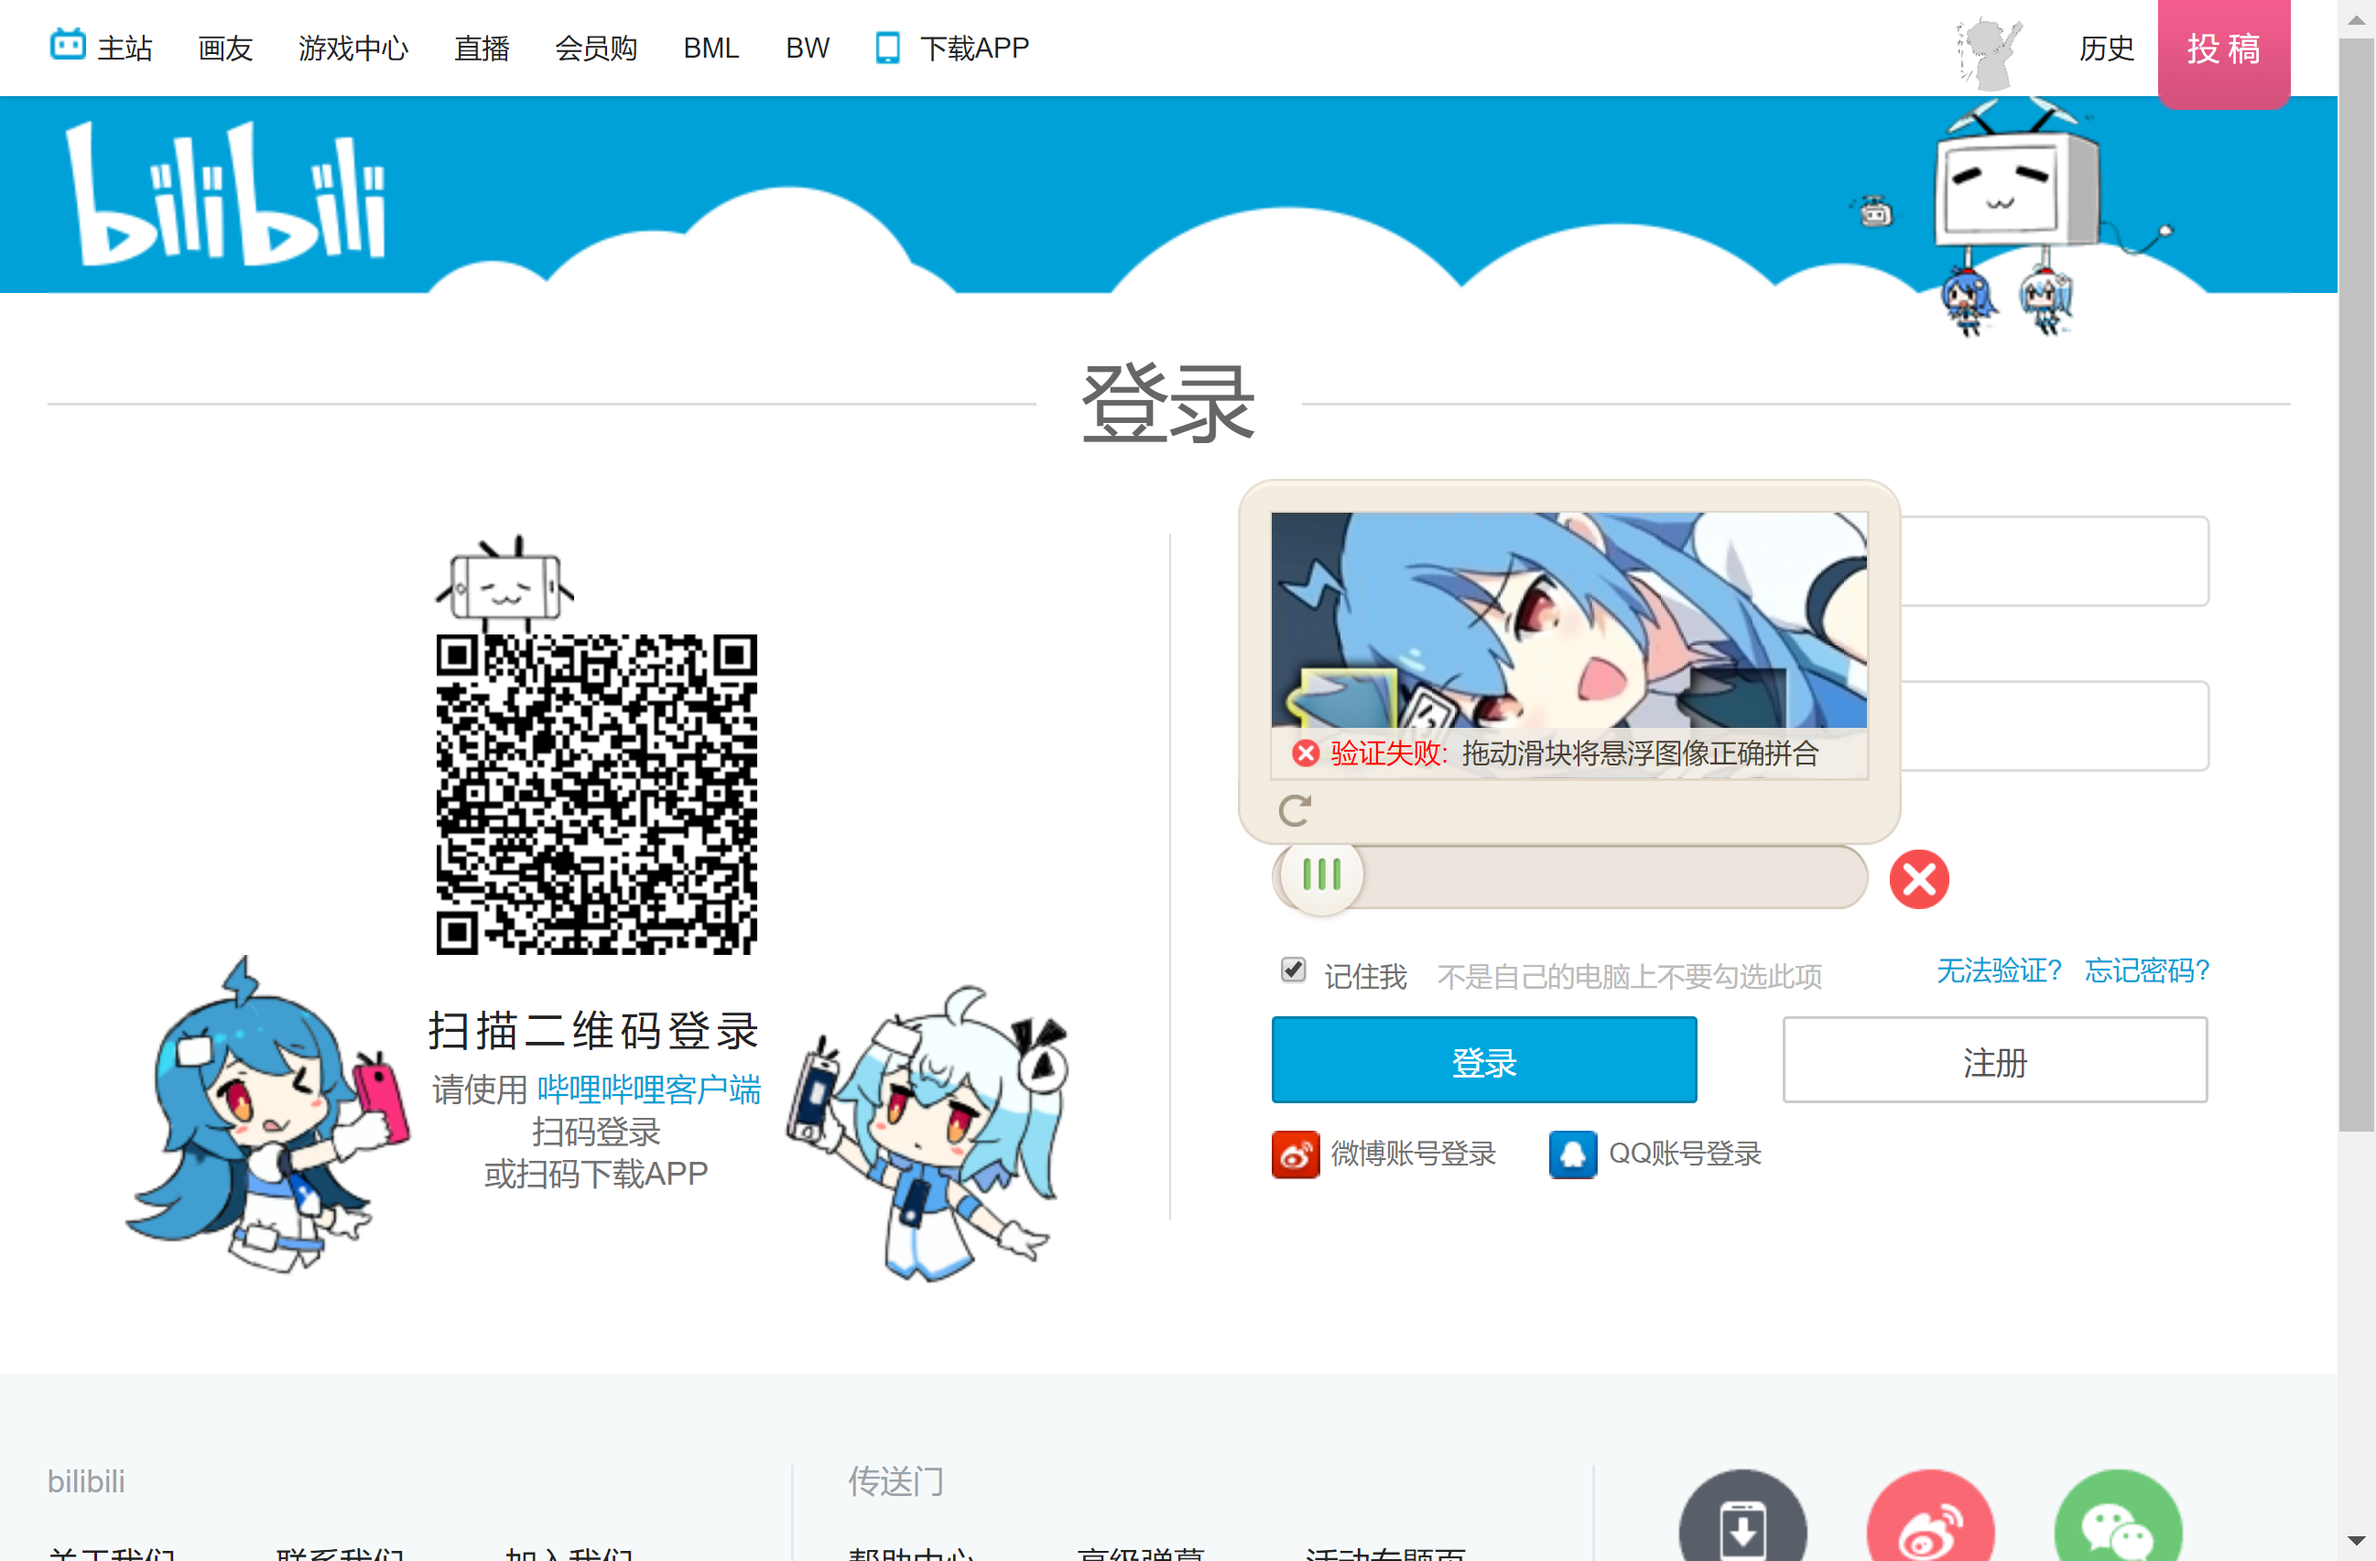
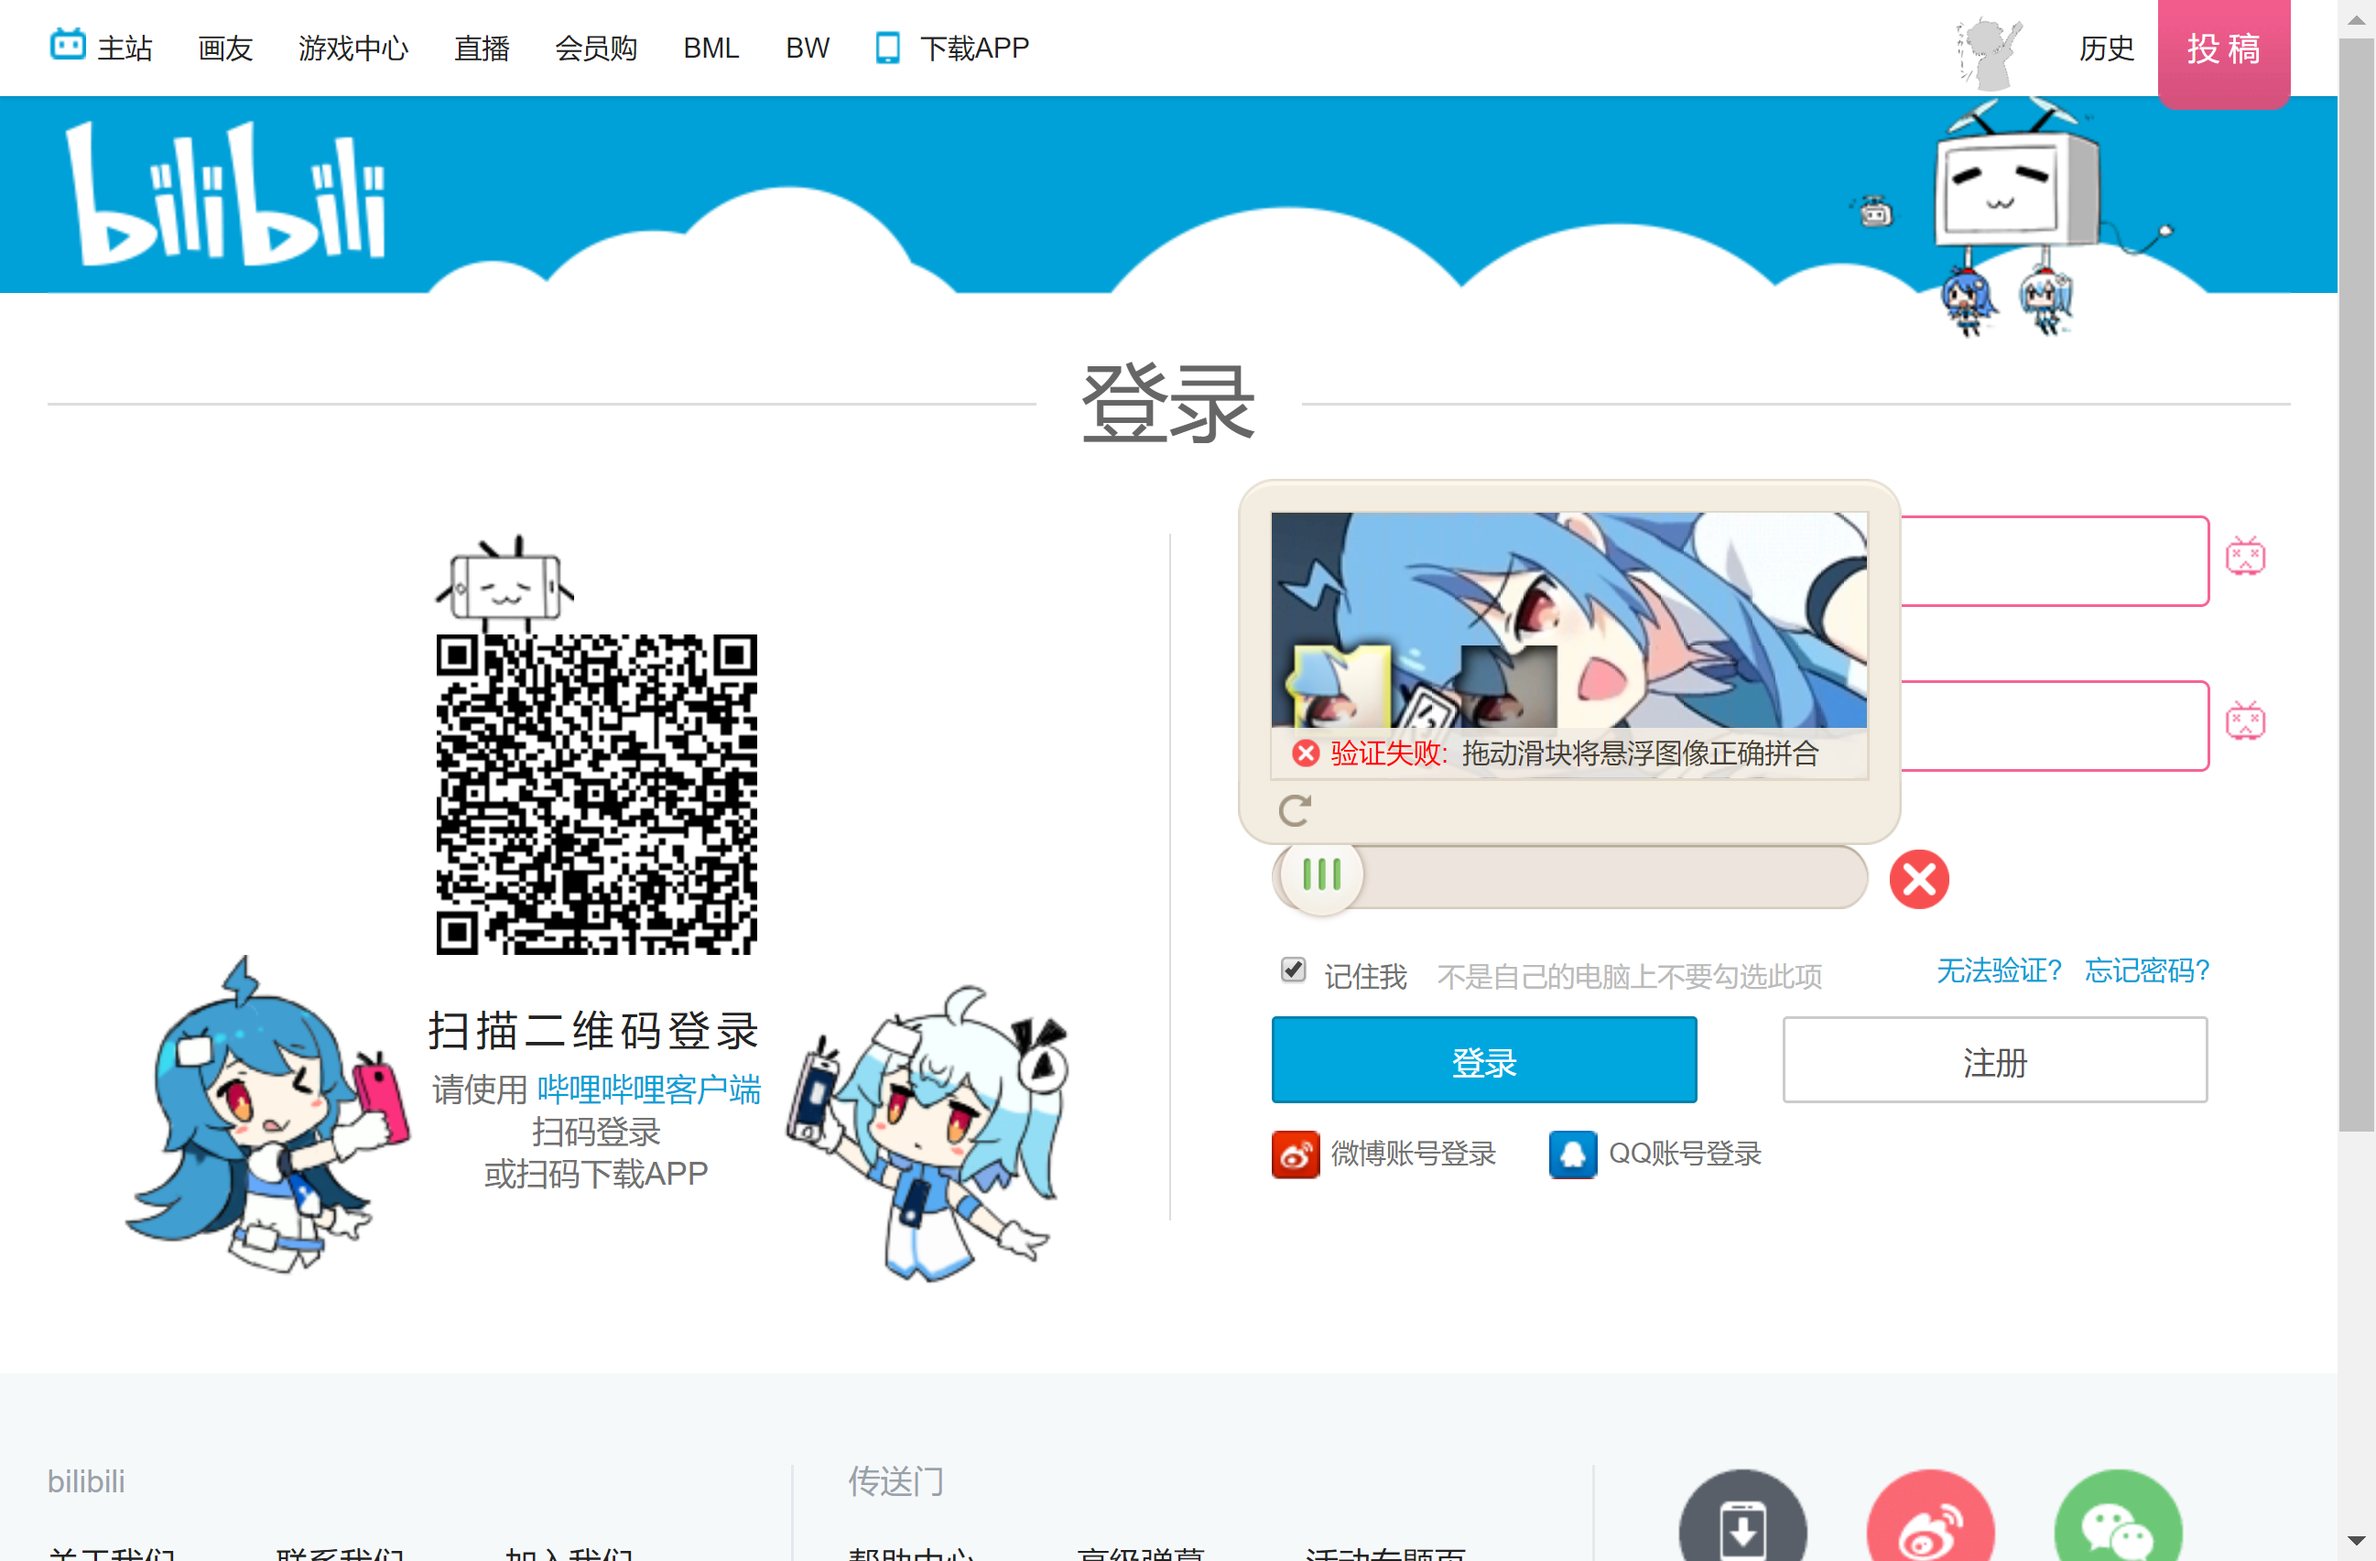
None

diff --git a/IdentifyingCodeCheck/IdentifyingCodeCheck.py b/IdentifyingCodeCheck/IdentifyingCodeCheck.py
@@ -5,15 +5,14 @@ from selenium.webdriver.common.by import By
 from selenium.webdriver.support import expected_conditions as EC
 from selenium.webdriver.support.ui import WebDriverWait
 from selenium.webdriver import ActionChains
-DEBUG = True
+DEBUG = False
 if not DEBUG:
     driver = webdriver.Chrome()
     wait = WebDriverWait(driver, 10)
     driver.get("https://www.bilibili.com")
     move_btn_xpath = '//*[@id="gc-box"]/div/div[3]/div[2]'
 cropped_im_size = (500, 235)
-either_threshold = 100
-jump_threshold = 120
+either_threshold = 80
 
 def LogIn():
     login_btn = wait.until(
@@ -46,40 +45,23 @@ def ImageCrop():
     im_crop = im.crop((1538, 560, 2038, 795))
     im_crop.save('./cropped2.png')
 def GetDistance(RGBList_1, RGBList_2):
-    conform = []
+    threshold = 20
     for iter_height in range(cropped_im_size[1]):
-        either = 0
         for iter_width in range(cropped_im_size[0] - 100):
             NOW_RGB_1 = RGBList_1[iter_height * cropped_im_size[0] + iter_width]
             NOW_RGB_2 = RGBList_2[iter_height * cropped_im_size[0] + iter_width]
             if NOW_RGB_1 != NOW_RGB_2:
-                either += 1
-                if either >= either_threshold:
-                    if len(conform) != 0 and iter_width - conform[-1] < jump_threshold:
-                        continue
-                    point_width = iter_width - either_threshold
-                    error_threshold = 0
-                    for iter_height_two in range(1, 40):
-                        NOW_RGB_1 = RGBList_1[(iter_height + iter_height_two) * cropped_im_size[0] + point_width]
-                        NOW_RGB_2 = RGBList_2[(iter_height + iter_height_two) * cropped_im_size[0] + point_width]
-                        if NOW_RGB_1 == NOW_RGB_2:
-                            error_threshold += 1
-                    if error_threshold < 5:
-                        error_threshold = 0
-                        for iter_width_two in range(either_threshold):
-                            for son_height in range(1, 20):
-                                NOW_RGB_1 = RGBList_1[(iter_height + son_height) * cropped_im_size[0] + iter_width_two + point_width]
-                                NOW_RGB_2 = RGBList_2[(iter_height + son_height) * cropped_im_size[0] + iter_width_two + point_width]
-                                if NOW_RGB_1 == NOW_RGB_2:
-                                    error_threshold += 1
-                    if error_threshold < 5:
-                        conform.append(point_width)
-                        either = 0
-            else:
-                either = 0
-    print(conform)
-    return conform[0] + 135
-
+                error_threshold = 0
+                for either_width in range(either_threshold):
+                    NOW_RGB_1 = RGBList_1[iter_height * cropped_im_size[0] + iter_width + either_width]
+                    NOW_RGB_2 = RGBList_2[iter_height * cropped_im_size[0] + iter_width + either_width]
+                    if abs(NOW_RGB_1[0] - NOW_RGB_2[0]) < threshold and abs(NOW_RGB_1[1] - NOW_RGB_2[1]) < threshold and abs(NOW_RGB_1[2] - NOW_RGB_2[2]) < threshold:
+                        error_threshold += 1
+                        if error_threshold == 5:
+                            break
+                if error_threshold < 5:
+                    print(iter_width)
+                    return iter_width + 132
 def GetTrack(distance):
     v0 = 0
     t = 0.2
